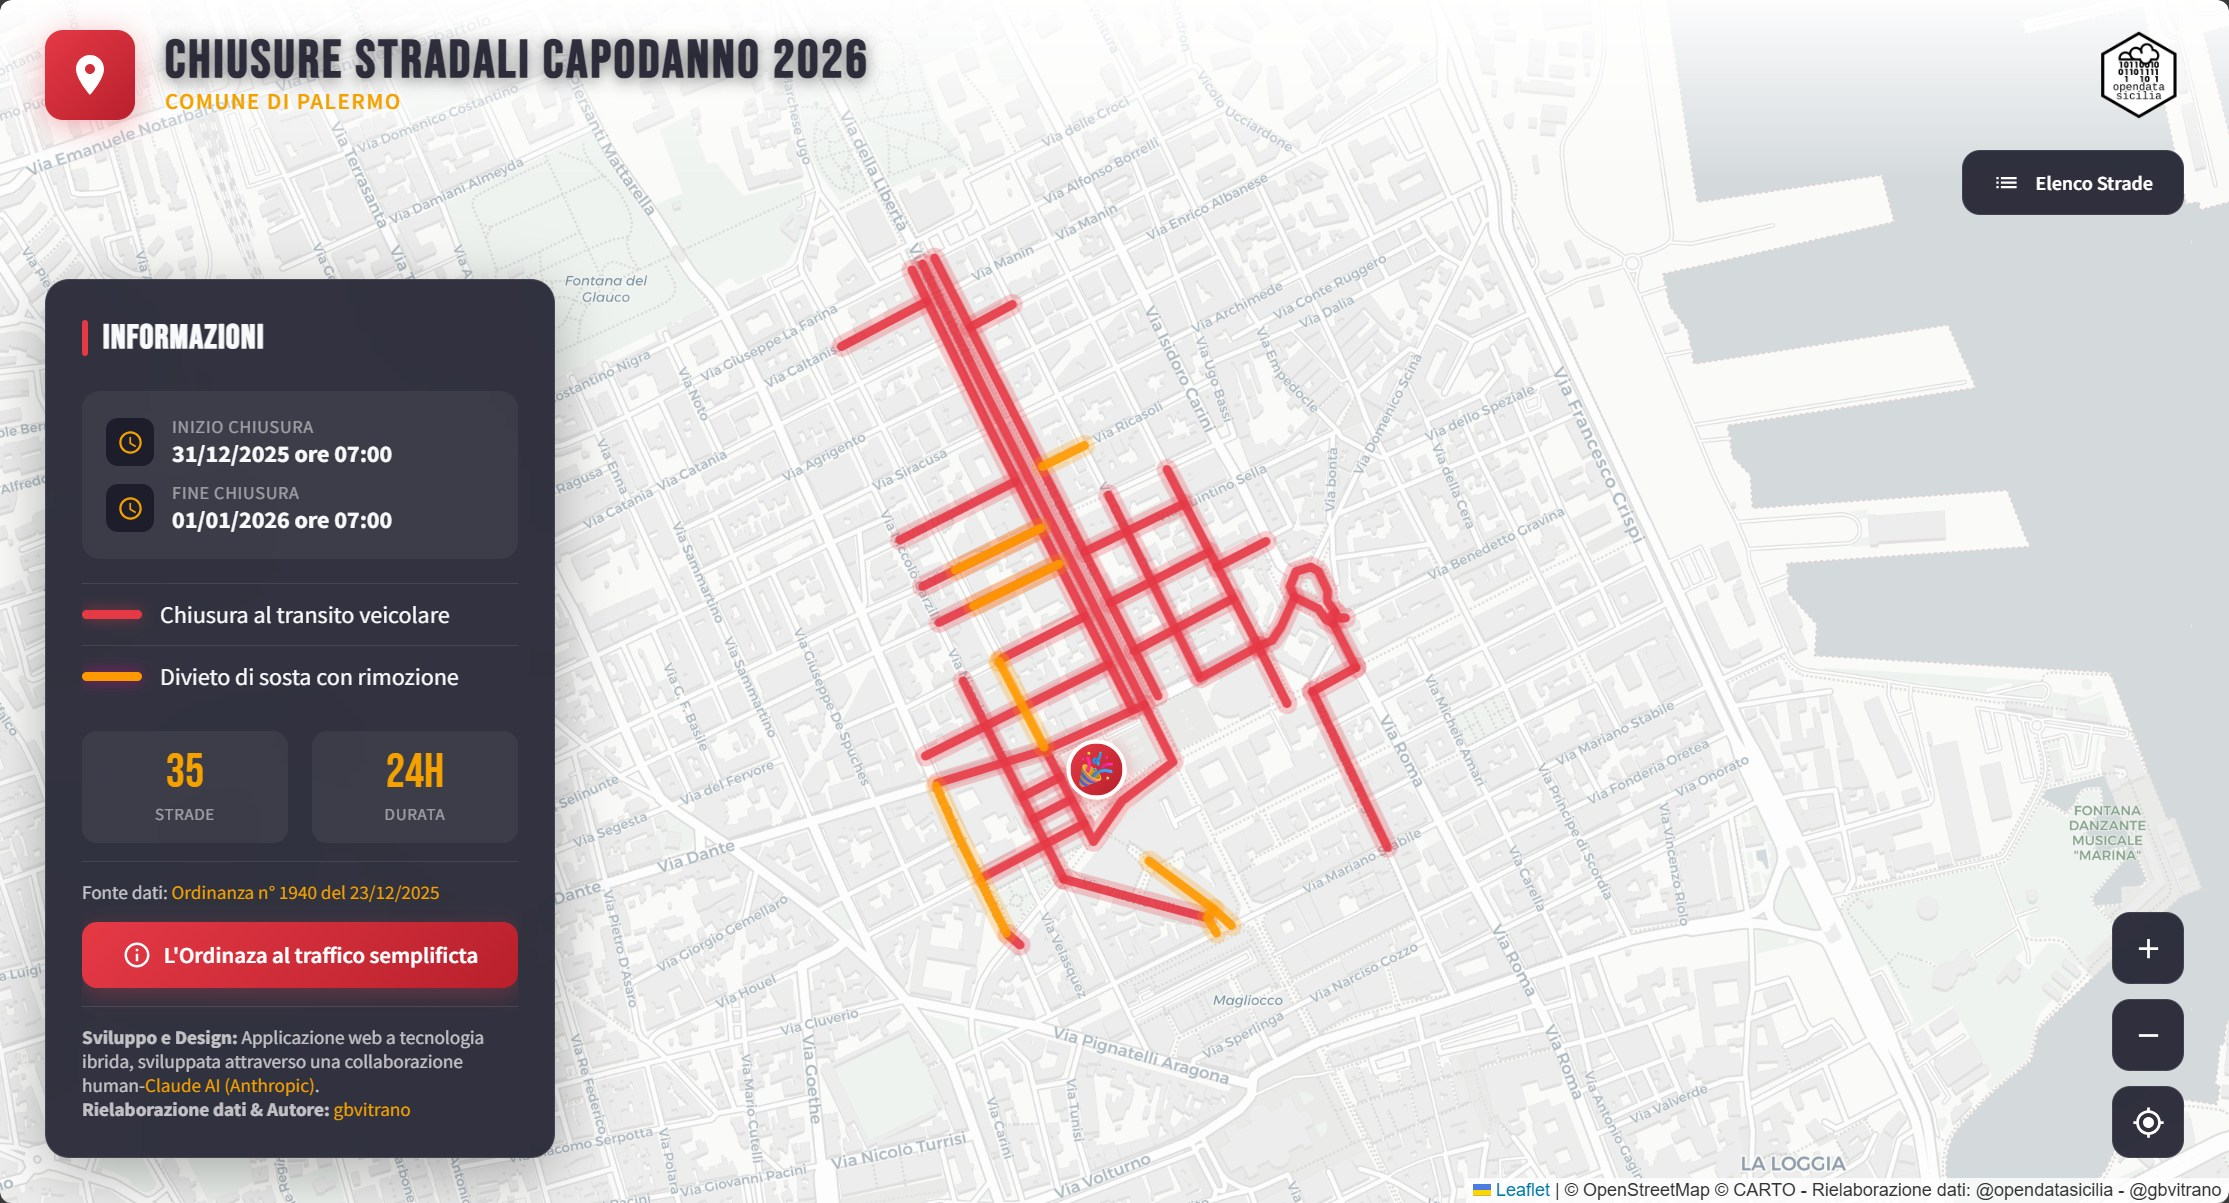
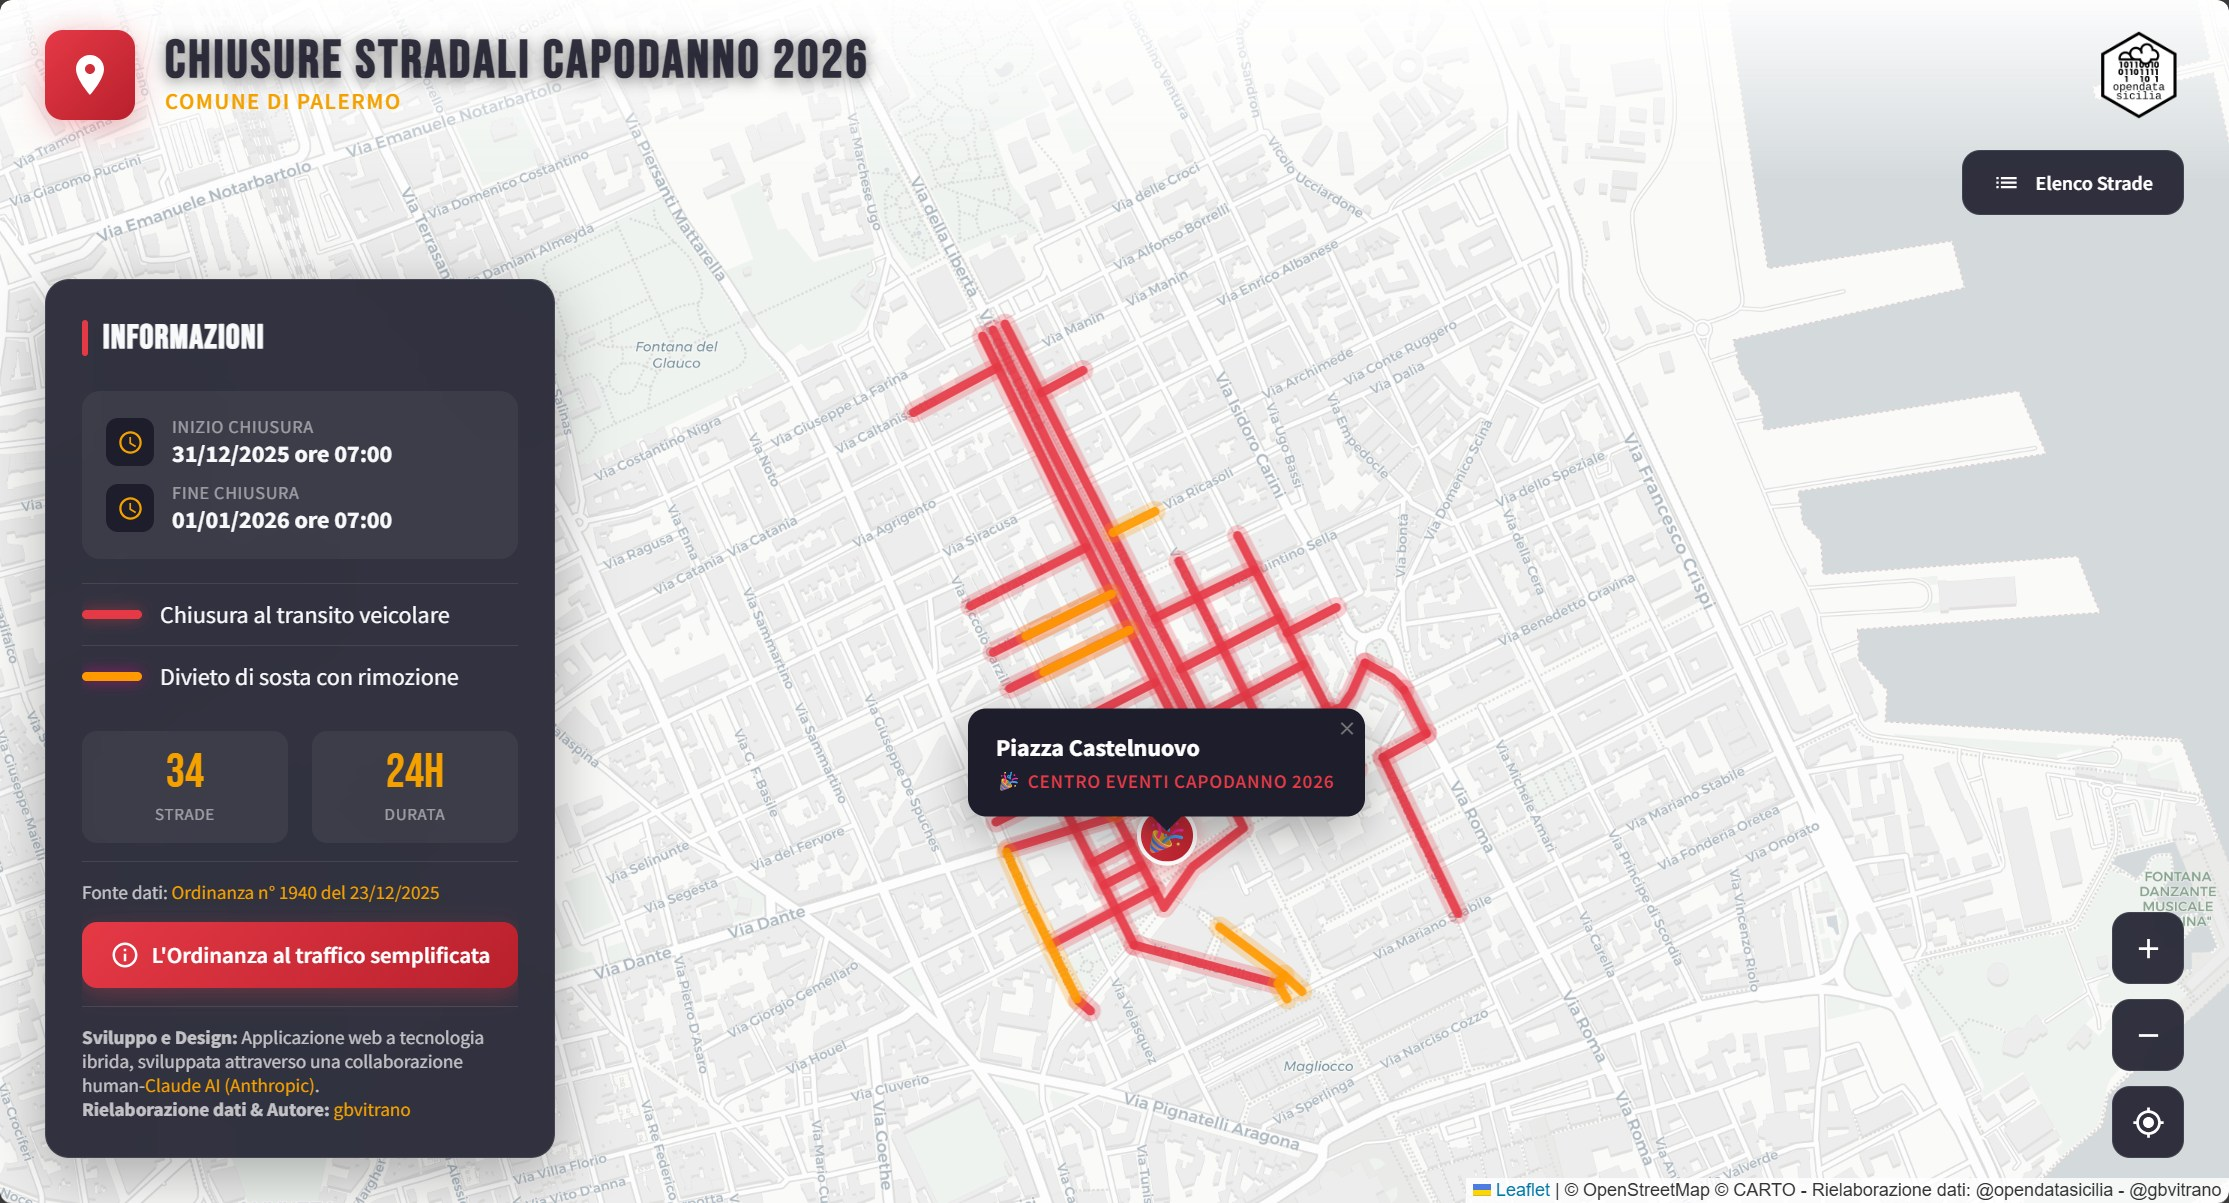
upgrade

diff --git a/capodanno_2026/index.html b/capodanno_2026/index.html
@@ -138,7 +138,7 @@
                     <li><strong>Piazza Castelnuovo</strong> (compreso il tratto tra via Libertà e via Dante, con la strada dietro il Palchetto della Musica e il prolungamento di via XX Settembre)</li>
                     <li><strong>Piazza Aldo Moro</strong></li>
                     <li><strong>Piazza S. Oliva</strong> (dal collegamento con via Abela a Piazza Castelnuovo)</li>
-                    <li><strong>Piazza Don L. Sturzo</strong> (daTratto tra via Domenico Scinà e via Roma (lato Monte) via Domenico Scinà e via Roma (lato Monte))</li>
+                    <li><strong>Piazza Don L. Sturzo</strong> (daTratto tra via Domenico Scinà e via Roma (lato Monte)</li>
                     <li><strong>Via Albanese Enrico</strong> (da via G. Daita a via Libertà)</li>
                     <li><strong>Via Amari Emerico</strong> (da via Roma a via Wagner)</li>
                     <li><strong>Via Caltanissetta</strong> (da via Libertà a via XX Settembre)</li>
@@ -151,7 +151,7 @@
                     <li><strong>Via Gallo Nicolò</strong> (da via I. La Lumia a via Libertà)</li>
                     <li><strong>Via Garzilli Niccolò</strong> (da Piazza S. Oliva a via XII Gennaio)</li>
                     <li><strong>Via Gaetano Daita</strong> (da via Mazzini a via Turati)</li>
-                    <li><strong>Via Gravina Benedetto</strong> (da via Roma a via Wagner)</li>
+                    <li><strong>Via Ammiraglio Gravina</strong> (da via Roma a via Wagner)</li>
                     <li><strong>Via Guccia Giovan Battista</strong> (Intero tratto)</li>
                     <li><strong>Via Guarino Amella Giovanni</strong> (Intero tratto) </li>
                     <li><strong>Via La Lumia Isidoro</strong> (da via Mazzini a via Turati)</li>
